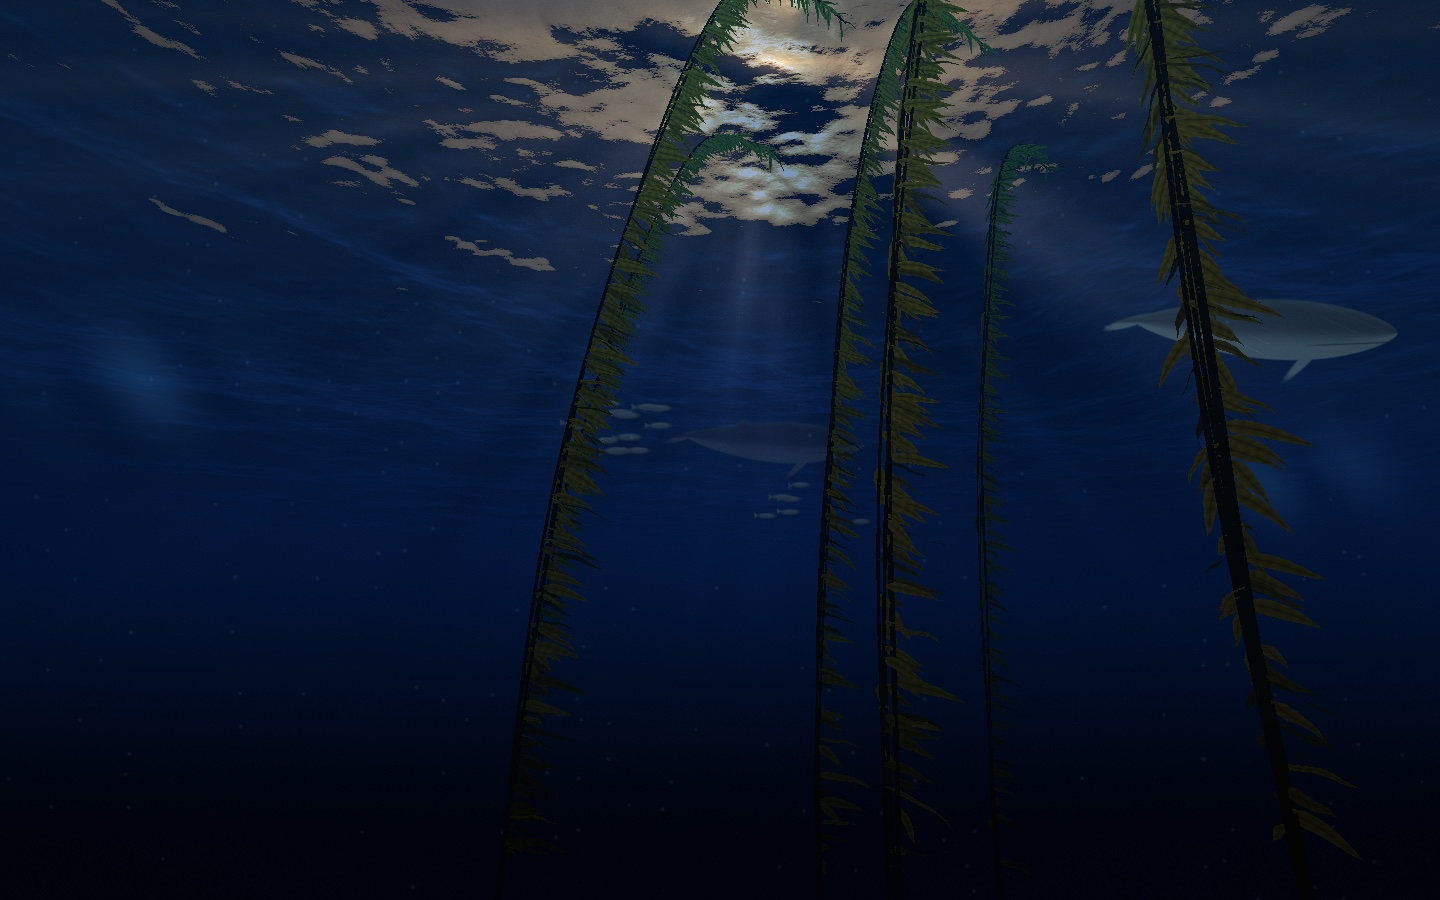
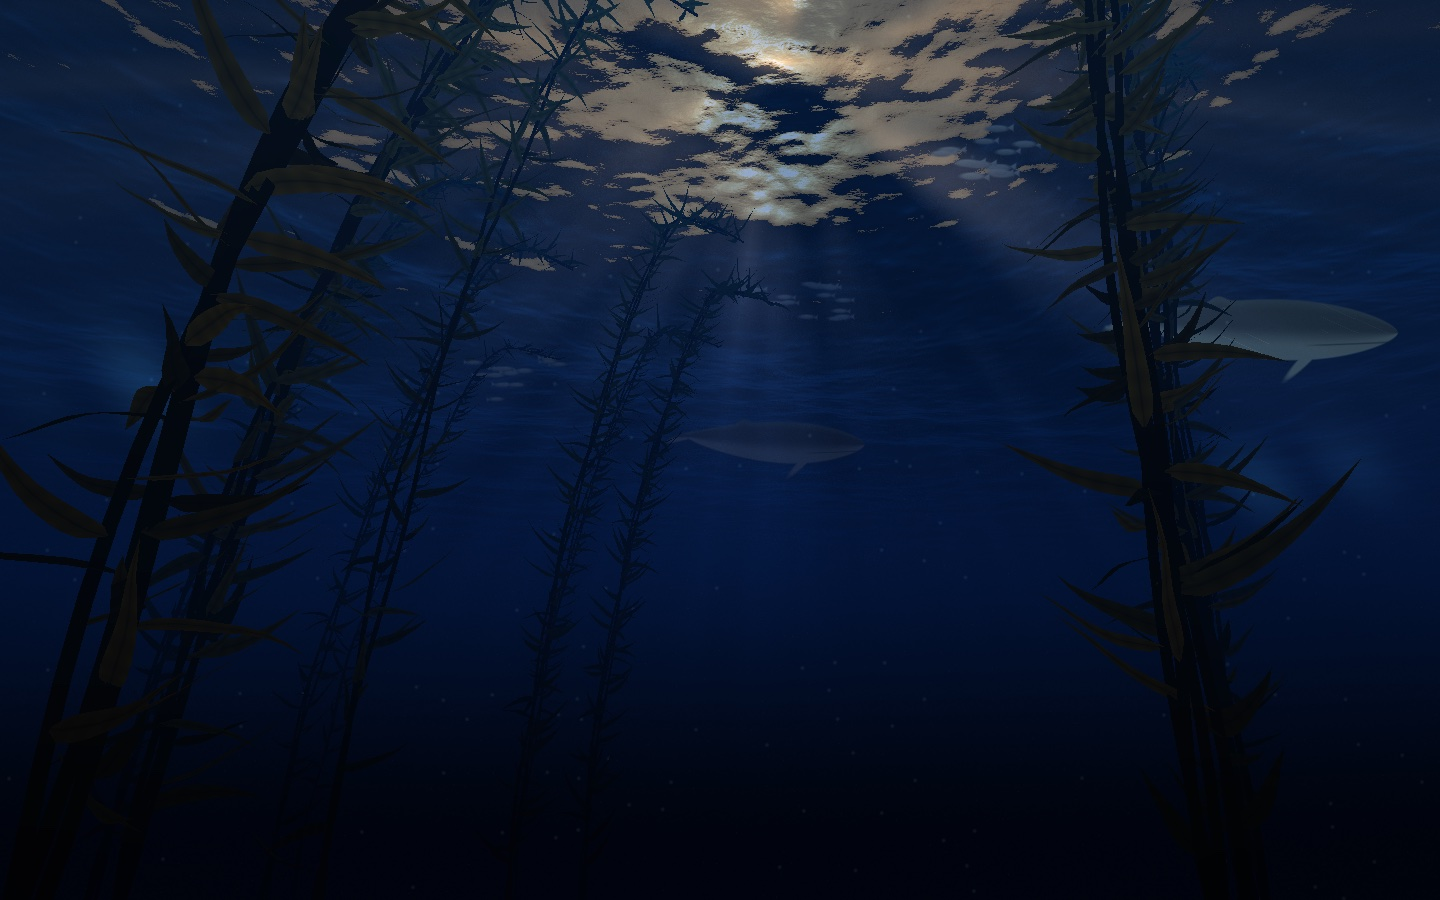
feat(scene): a kelp forest in silhouette with depth
- Dark shapes against the bright water, with only a little amber where the sun
  shines through
- 9 to 12 plants from 6 to 60 m away; the far ones fade into the water
- Near plants stand left and right, leaving a clearing ahead for the whales
- Thicker stalks that wind around each other; fewer, larger blades that curl

Part of #7

diff --git a/macos/EchomereScene/Sources/CoveSceneRenderer/SceneShaders.swift b/macos/EchomereScene/Sources/CoveSceneRenderer/SceneShaders.swift
@@ -438,7 +438,7 @@ enum SceneShaders {
     // Giant kelp as geometry. One mesh (see KelpMesh) is drawn once per stalk; this shader bends the stalk
     // through the water and hangs the blades on it.
 
-    constant float BLADES = 96.0;                         // KelpMesh.blades
+    constant float BLADES = 64.0;                         // KelpMesh.blades
     constant float2 CURRENT = float2(0.80, 0.60);         // the way the current flows (x, z)
     constant float2 SURGE = float2(0.60, 0.80);           // the way the swell pushes the water back and forth
 
@@ -478,7 +478,7 @@ enum SceneShaders {
         xz += SURGE * (0.52 + 0.79 * rise) * pow(rise, 1.2) * sin(u[0].y - 1.0 * s + b.x);
         xz += float2(-CURRENT.y, CURRENT.x) * 0.3 * rise * sin(u[0].z + b.x * 1.7);
         // The stalks of one plant wind loosely around each other.
-        xz += 0.07 * float2(cos(along * 0.35 + b.y), sin(along * 0.35 + b.y)) * smoothstep(0.0, 4.0, along);
+        xz += 0.16 * float2(cos(along * 0.45 + b.y), sin(along * 0.45 + b.y)) * smoothstep(0.0, 3.0, along);
         // The canopy rides the waves.
         y += smoothstep(3.0, 0.5, -y) * heightOf(displacement, xz);
         return float3(xz.x, y, xz.y);
@@ -505,7 +505,7 @@ enum SceneShaders {
             float3 toCamera = normalize(camera - centre);
             float3 side = normalize(cross(tangent, toCamera));
             // Never thinner than about a pixel, so distant stalks don't break up.
-            float width = max(0.035, length(camera - centre) * u[1].x * 0.9);
+            float width = max(0.065, length(camera - centre) * u[1].x * 0.9);
             out.world = centre + side * in.data.z * width;
             out.normal = toCamera;
             out.uv = float2(s, in.data.z);
@@ -518,8 +518,8 @@ enum SceneShaders {
 
             float theta = j * 2.39996 + b.z;
             // Blades hang off the stalk in all directions and stream with the current.
-            float3 direction = float3(cos(theta), -0.35 + 0.6 * (h2 - 0.5), sin(theta)) * 0.55
-                             + float3(CURRENT.x, 0.0, CURRENT.y) * 0.9;
+            float3 direction = float3(cos(theta), 0.1 + 0.5 * (h2 - 0.5), sin(theta)) * 0.9
+                             + float3(CURRENT.x, 0.0, CURRENT.y) * 0.45;
             // Blades trail behind the stalk as the surge moves it.
             float velocity = cos(u[0].y - 1.0 * s + b.x);
             direction -= float3(SURGE.x, 0.0, SURGE.y) * velocity * 0.6 * rise;
@@ -531,12 +531,14 @@ enum SceneShaders {
             normal = cross(turned, direction);
 
             float along = in.data.y;
-            float bladeLength = (0.80 + 0.60 * h2) * b.w;
+            float bladeLength = (1.30 + 1.00 * h2) * b.w;
             float flutter = sin(u[0].w * (h1 < 0.5 ? 1.0 : 2.0) + j * 1.3);
             float3 point = base + direction * bladeLength * along
                          + normal * (0.12 * along * along * flutter + 0.05 * along * sin(along * 9.0 + j))
-                         + float3(0.0, -0.18, 0.0) * along * along * bladeLength;   // the tip droops
-            float halfWidth = 0.115 * b.w * pow(sin(3.14159 * pow(along, 0.55)), 0.8)
+                         // Blades curl: most upwards towards the light, some downwards.
+                         + float3(0.0, h3 < 0.75 ? 0.45 : -0.35, 0.0) * along * along * bladeLength
+                         + turned * 0.25 * bladeLength * along * along * (h1 - 0.5);
+            float halfWidth = 0.150 * b.w * pow(sin(3.14159 * pow(along, 0.50)), 0.9)
                             + 0.022 * exp(-pow(along / 0.06, 2.0));        // the gas bladder at the base
             out.world = point + turned * in.data.z * halfWidth;
             out.normal = normal;
@@ -559,23 +561,23 @@ enum SceneShaders {
 
         float3 c;
         if (in.blade < 0.0) {
-            c = float3(0.045, 0.036, 0.016) * (0.35 + 0.9 * sunlight);
+            c = float3(0.030, 0.026, 0.012) * (0.30 + 0.6 * sunlight);
         } else {
             float lit = saturate(dot(normal, sun));
             // Sunlight shining through a blade towards the camera glows amber, most at the thin edges.
             float behind = saturate(dot(-normal, sun) + 0.25);
             float towards = pow(saturate(dot(-view, sun) * 0.5 + 0.5), 2.0);
             float through = behind * towards * (0.65 + 0.35 * abs(in.uv.y));
-            c = float3(0.110, 0.095, 0.030) * (0.30 + 0.9 * sunlight + 1.4 * lit * sunlight)
-              + float3(0.80, 0.47, 0.10) * through * sunlight * 2.2;
+            c = float3(0.060, 0.055, 0.020) * (0.25 + 0.5 * sunlight + 0.7 * lit * sunlight)
+              + float3(0.80, 0.47, 0.10) * through * sunlight * 1.2;
             c *= 1.0 - 0.30 * smoothstep(0.18, 0.0, abs(in.uv.y));         // the midrib
             c *= 0.92 + 0.08 * sin(in.uv.x * 38.0 + in.blade);              // the wrinkled surface
         }
 
         // The water between the kelp and the camera.
         float y = 1.0 - in.position.y * u[1].x;
-        float3 clear = exp(-distance * float3(0.060, 0.034, 0.027));
-        c = c * clear + water(y) * 0.55 * (1.0 - clear);
+        float3 clear = exp(-distance * float3(0.070, 0.046, 0.040));
+        c = c * clear + water(y) * 0.75 * (1.0 - clear);
         float2 v = float2(in.position.x * u[1].x / u[0].x - 0.5, y - 0.5) * float2(1.0, 0.8);
         c *= 1.0 - 0.35 * dot(v, v);
         return float4(saturate(c), 1.0);

diff --git a/macos/EchomereScene/Sources/CoveScene/CoveLayout.swift b/macos/EchomereScene/Sources/CoveScene/CoveLayout.swift
@@ -72,12 +72,17 @@ public struct CoveLayout: Equatable, Sendable {
         // Giant kelp: a few plants, each a bundle of stalks. They are rooted on the seabed, which slopes away
         // below the view, so the stalks rise into the picture from its bottom edge.
         var fronds: [KelpFrond] = []
-        for plant in 0..<random.int(5, 7) {
-            let z = 7 + 28 * (Double(plant) + random.unit()) / 7
-            let x = random.range(-0.95, 0.95) * z
+        let plants = random.int(9, 12)
+        for plant in 0..<plants {
+            // Plants stand at many distances: the near ones are dark shapes, the far ones fade into the water.
+            let z = 6 + 54 * pow((Double(plant) + random.unit()) / Double(plants), 1.4)
+            // Near plants stand to the left and right, leaving a clearing ahead of the camera for the whales;
+            // far ones stand anywhere.
+            let side = plant % 2 == 0 ? -1.0 : 1.0
+            let x = z < 28 ? side * random.range(0.38, 1.0) * z : random.range(-0.9, 0.9) * z
             let depth = SceneRules.cameraDepth + 2 + 0.36 * z
             let plantPhase = random.angle()
-            for _ in 0..<random.int(3, 5) {
+            for _ in 0..<random.int(2, 4) {
                 fronds.append(KelpFrond(
                     baseX: x + random.range(-0.12, 0.12),
                     baseZ: z + random.range(-0.12, 0.12),

diff --git a/macos/EchomereScene/Sources/CoveSceneRenderer/KelpMesh.swift b/macos/EchomereScene/Sources/CoveSceneRenderer/KelpMesh.swift
@@ -7,8 +7,8 @@
 enum KelpMesh {
     static let stalkSegments = 48
     /// Must match `BLADES` in the shader.
-    static let blades = 96
-    static let bladeRows = 7
+    static let blades = 64
+    static let bladeRows = 9
 
     static func build() -> (vertices: [SIMD4<Float>], indices: [UInt16]) {
         var vertices: [SIMD4<Float>] = []
